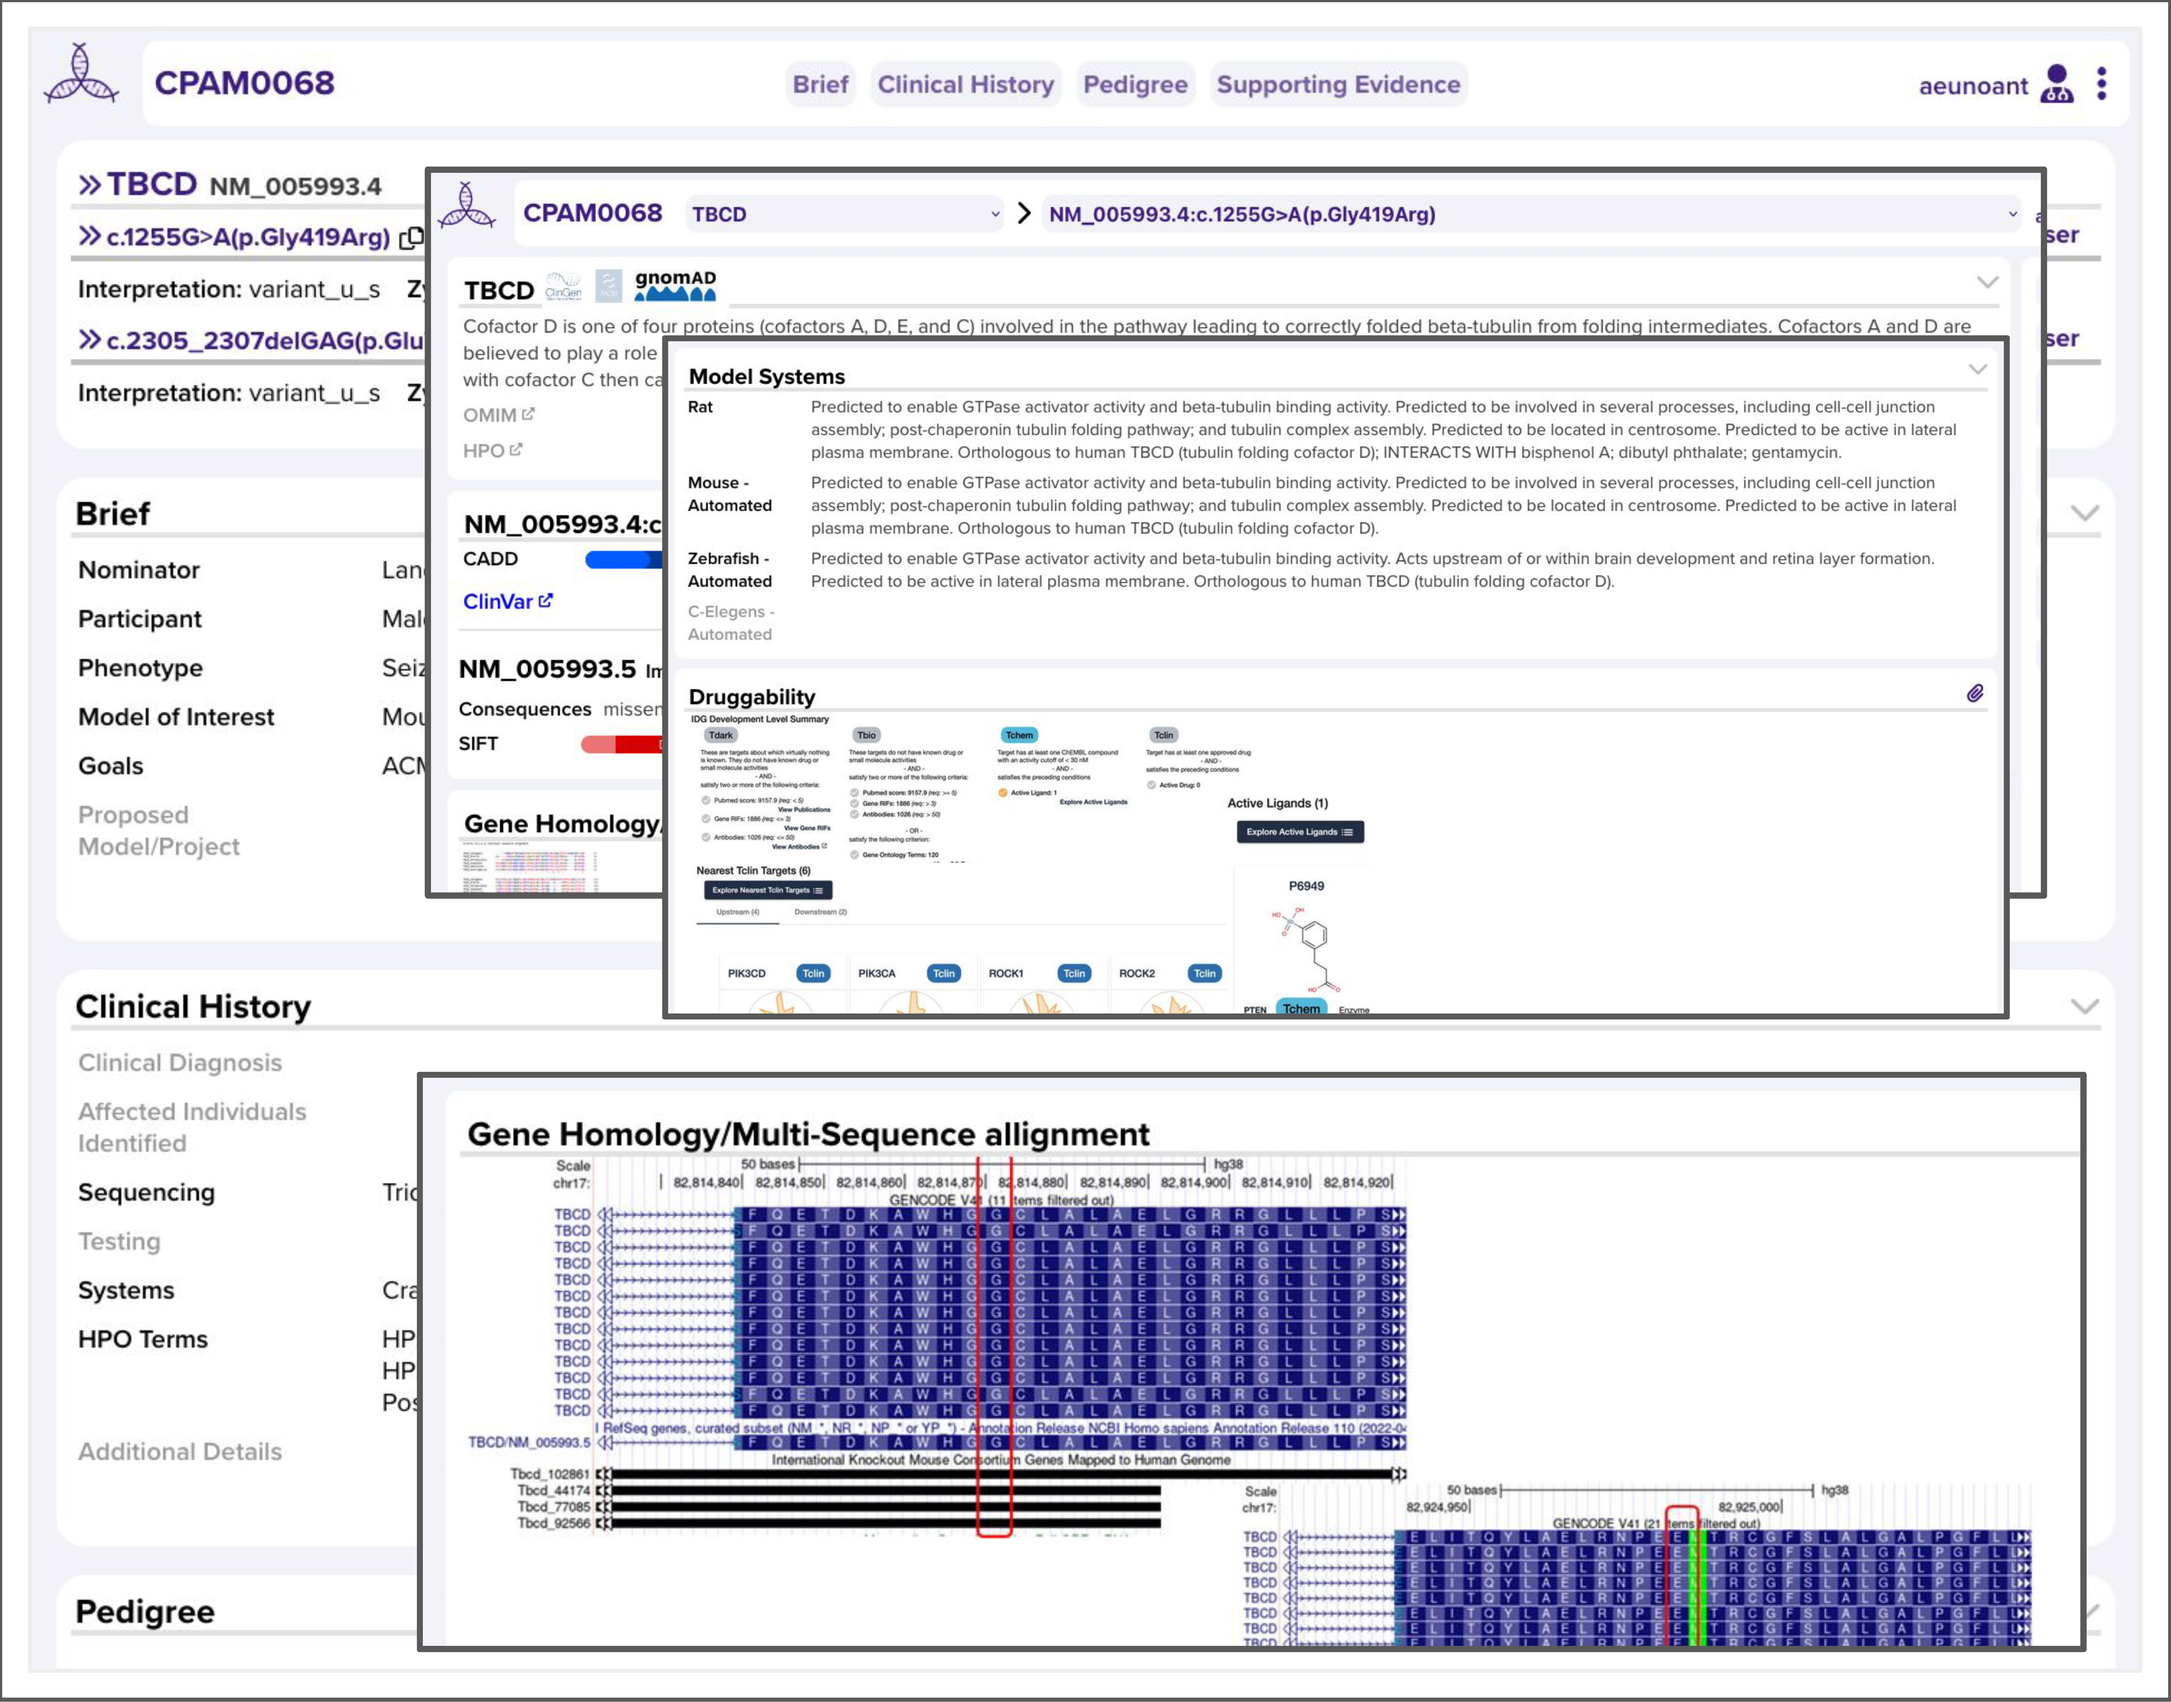
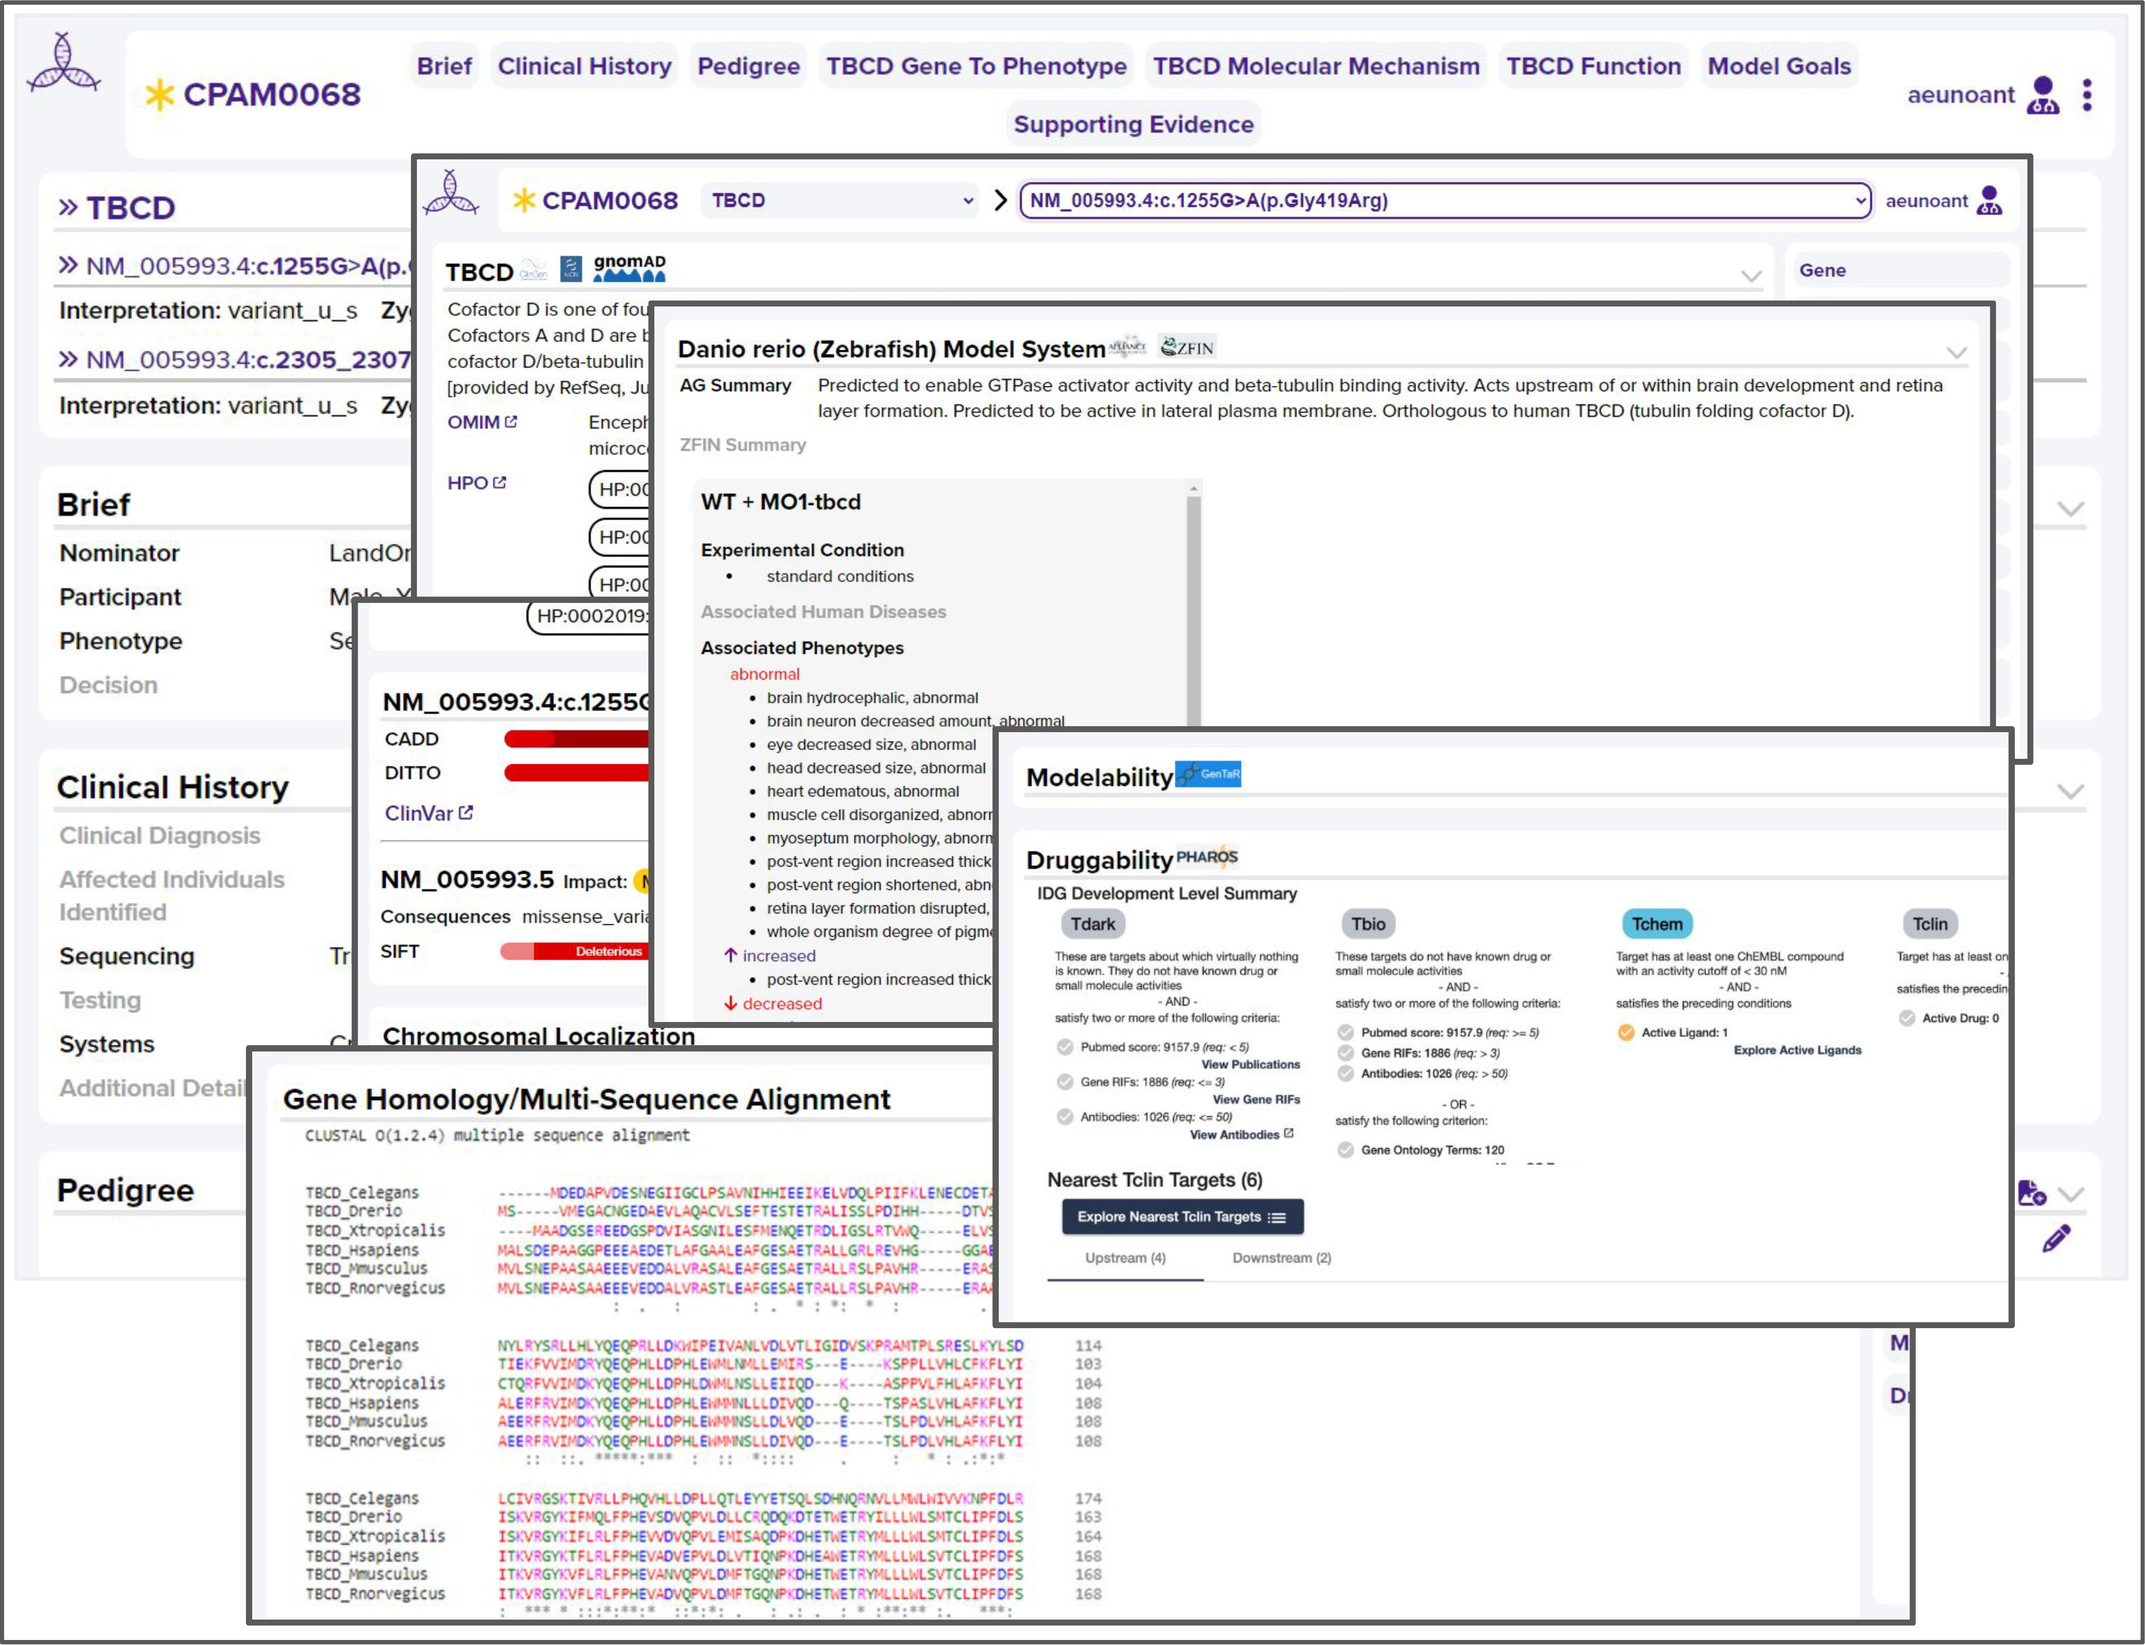
Added the state of the field section; and revised the figures to include more up to date screenshots of Rosalution. (#134)

Changed region(s): [[0.0, 0.0, 1.0, 1.0]]

diff --git a/paper.md b/paper.md
@@ -81,6 +81,48 @@ integration. It also supports the analysis process, guiding and collecting the d
 consideration. It is designed not only to facilitate analysis and generation of biological insights for an
 individual case, but also aims to enrich subsequent data mining and process improvement for meta-analyses.
 
+# State of the field
+
+Precision animal modeling involves creating genetically engineered animals with specific molecular alterations
+identified in human diseases, such as cancer, neurodegenerative disorders, and cardiovascular conditions. The models
+generated serve as invaluable tools for molecular diagnostics, biomedical research, and drug development in particular.
+Over recent years, advances in molecular biology, cell biology, and computational methodologies have increased
+applications for these models. Widespread adoption of whole exome and genome sequencing has accelerated the
+identification of disease genes and rare disease-causing variations. Advanced algorithms and software have streamlined
+data analysis, helping researchers filter out common genetic variants and prioritize rare, potentially disease-causing
+ones. CRISPR-Cas9 technology has made precise genetic alterations in animals more accessible. Collectively, these
+advancements have revolutionized our ability to identify and understand molecular variations underlying human diseases,
+greatly enhanced our knowledge of biological processes and disease mechanisms, and empowered us to test therapies and
+drugs using precision animal models.
+
+Selecting the right variants for precision animal models often involves reviewing research publications and, in some
+cases, employing custom scripts and pipelines to integrate data from various sources. These datasets and tools
+encompass variant annotation software like ANNOVAR, Variant Effect Predictor (VEP) [@mclaren_ensembl_2016], or SnpEff,
+which provide crucial information about variant location, functional impact, and potential disease associations.
+Variant allele frequency and disease association repositories like ClinVar [@landrum_clinvar_2018], ExAC, and gnomAD
+offer insights into variant prevalence in the general population and their links to diseases. Damage prediction
+algorithms like VAAST, PolyPhen-2 [@adzhubei_method_2010], and SIFT [@ng_predicting_2001] aid in predicting variant
+pathogenicity based on sequence conservation, functional impact, and population frequencies. Rare disease collaborative
+databases and platforms are also valuable resources for variant selection and interpretation.
+
+While the development of pipelines and tools for precision animal modeling requires significant effort, there's a
+notable tool called MARRVEL (Model organism Aggregated Resources for Rare Variant ExpLoration) designed to assist
+users in exploring data from these repositories for variant consideration. MARRVEL provides a wealth of curated
+information about human genes and variants, along with their orthologous genes in seven model organisms. It aids in
+assessing whether a variant of unknown significance (VUS) in a known disease-causing gene or a variant in a gene of
+uncertain significance (GUS) might be pathogenic. The tool aggregates data from various sources, including
+OMIM [@amberger_omimorg_2015], ExAC/gnomAD, ClinVar [@landrum_clinvar_2018], Geno2MP, DGV, and DECIPHER, and
+offers insights into orthologous genes, expression patterns, and Gene Ontology (GO) terms across both human and
+model organisms.
+
+Although MARRVEL provides extensive, carefully selected, and organized information, it doesn't currently support direct
+user curation or annotation. Nevertheless, the ability to curate data, as seen in platforms like Rosalution, offers
+numerous advantages. It encourages collaboration and knowledge sharing within the scientific community, driving
+researchers and experts to contribute insights and annotations. User-curated data enables rapid integration of new
+research findings, maintains standardized data representation, and reduces the likelihood of errors or
+misinterpretations. As precision medicine and animal modeling continue to advance, user-curated data plays a vital
+role in staying at the forefront of scientific discovery.
+
 # Statement of Need
 
 Gene editing approaches are used to generate precision disease animal models (e.g., cells, worms, zebrafish)
